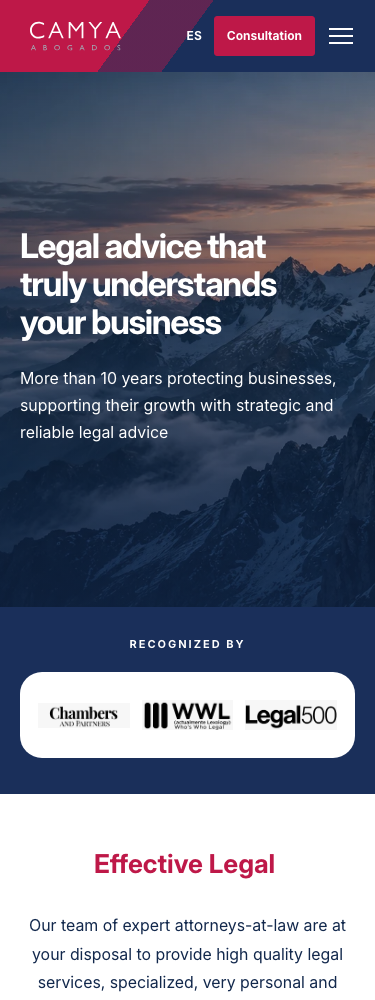
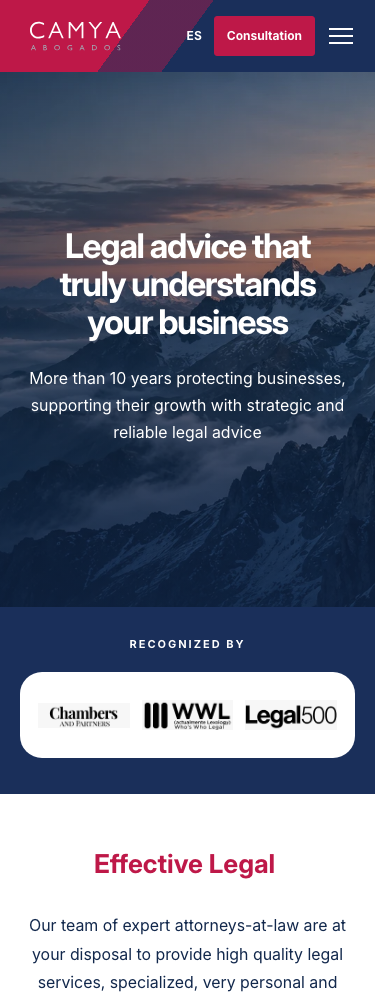
Center homepage hero heading and subtitle

Changed region(s): [[0.0587, 0.217, 0.8507, 0.341], [0.0587, 0.372, 0.9093, 0.465]]

diff --git a/dist/home.css b/dist/home.css
@@ -96,10 +96,10 @@ body.camya-home-refresh {
 .camya-hero-image, .camya-hero-overlay {position: absolute; inset: 0; width: 100%; height: 100%; z-index: -1}
 .camya-hero-image {object-fit: cover; object-position: center}
 .camya-hero-overlay {background: linear-gradient(rgba(0,0,0,0.2), rgba(18,40,76,0.7))}
-.camya-hero-content {padding-block: 90px 100px}
+.camya-hero-content {padding-block: 90px 100px; text-align: center}
 .camya-hero h1 {
   max-width: 820px;
-  margin: 0;
+  margin: 0 auto;
   color: #fff;
   font-size: clamp(40px, 5vw, 70px);
   font-weight: 700;
@@ -107,7 +107,7 @@ body.camya-home-refresh {
   letter-spacing: -0.045em;
   text-wrap: balance;
 }
-.camya-hero-description {max-width: 570px; margin: 28px 0 0; font-size: 18px; line-height: 1.75; font-weight: 400}
+.camya-hero-description {max-width: 570px; margin: 28px auto 0; font-size: 18px; line-height: 1.75; font-weight: 400}
 
 @media (min-width: 1024px) {
   .camya-hero h1 {

diff --git a/README.md b/README.md
@@ -1,6 +1,6 @@
-# CAMYA — accueil en prévisualisation sur dev
+# CAMYA — site bilingue
 
-Le clone et sa correction mobile ont été validés. La branche `dev` adapte uniquement l'accueil espagnol et anglais selon le brief client : header framboise/bleu, image montagne fournie, textes et boutons demandés, reconnaissances avec les logos originaux.
+Le clone et sa correction mobile ont été validés. L'accueil espagnol et anglais est adapté selon les corrections client : header framboise/bleu, image montagne fournie, titre et sous-titre centrés sur une seule ligne sur ordinateur, titre espagnol agrandi de 20 %, boutons du hero retirés, reconnaissances avec les fichiers fournis dans l'ordre Chambers, WWL, Legal 500.
 
 Les 79 URL, les biographies, les contenus et le formulaire du clone sont conservés. Les anciens textes du hero restent sous les reconnaissances. « Sectores » renvoie aux domaines existants dans les áreas de práctica ; aucune page ni texte de secteur n'est ajouté. L'accueil anglais reste lisible sur mobile, sans chevauchement du logo.
 
@@ -18,4 +18,4 @@ Les ressources sont locales et le WordPress/DNS du client reste intact. Les form
 
 Les captures et contrôles de l'accueil sont dans `verification/home-refresh/`. Les comparaisons du clone avant adaptation restent dans `verification/clone-complete/`.
 
-La production https://camya-mx.vercel.app/ conserve le clone validé. Déployer `dev` en preview avec `vercel deploy --yes --scope olivier-steineur`, sans `--prod`. Attendre la validation du client avant toute promotion en production.
+`dev` reste la branche de travail. À la demande du client, la version centrée est fusionnée dans `main`, créée à partir du clone sauvegardé sur `backup` (`3d4412f`). La production Vercel utilise https://camya-mx.vercel.app/. Les previews utilisent `vercel deploy --yes --scope olivier-steineur` ; les versions validées sur `main` utilisent `vercel deploy --prod --yes --scope olivier-steineur`.

diff --git a/verification/HOME_REFRESH_FR.md b/verification/HOME_REFRESH_FR.md
@@ -12,6 +12,8 @@ Le titre espagnol est ensuite agrandi de **20 % sur ordinateur** : 38,4 à 60 px
 
 Le sous-titre ES/EN est également sur une seule ligne à partir de 1024 px, en utilisant la largeur disponible et une taille de 14 à 18 px. Les tailles et retours à la ligne mobiles sont conservés.
 
+Le titre et le sous-titre sont centrés horizontalement sur ordinateur et mobile, sur les accueils ES/EN. Le titre espagnol conserve son augmentation de 20 % et les deux textes gardent chacun une ligne sur ordinateur. Le client demande ensuite de fusionner `dev` dans `main`.
+
 | Menu espagnol | Destination |
 | --- | --- |
 | Inicio | `/` |
@@ -55,4 +57,4 @@ Après retrait des boutons, **5 tests publics réussis** confirment les cinq lar
 
 La production avait entre-temps été mise à jour vers un déploiement créé à 23 h 09, contenant le commit `7c427db`. Cette correction n'y intervient pas : elle reste en prévisualisation. Le [relevé de cette correction](home-refresh/hero-buttons-removal.json) vérifie les 79 routes publiques et que la production conserve ce contenu précédemment publié.
 
-L'aperçu est noindex. La promotion en production attend la validation du client ; les DNS et le WordPress du client ne sont pas modifiés.
+Le site Vercel conserve sa directive noindex. Le client demande maintenant de centrer les deux lignes du hero puis de fusionner `dev` dans `main`. Cette livraison est déployée en production Vercel après les vérifications. Les DNS et le WordPress du client ne sont pas modifiés.
